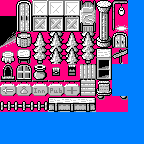
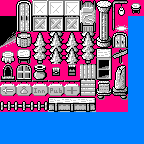
Added new files and updated tilesets

Changed region(s): [[0.7778, 0.4444, 0.8889, 0.6667], [0.8889, 0.0, 1.0, 0.1111]]

diff --git a/saga/res/maps/tilesets/upper.tsx b/saga/res/maps/tilesets/upper.tsx
@@ -1,239 +1,4 @@
 <?xml version="1.0" encoding="UTF-8"?>
 <tileset name="upper" tilewidth="16" tileheight="16">
  <image source="upper2.PNG" trans="ff0080" width="144" height="144"/>
- <tile id="1">
-  <properties>
-   <property name="x" value=""/>
-  </properties>
- </tile>
- <tile id="2">
-  <properties>
-   <property name="x" value=""/>
-  </properties>
- </tile>
- <tile id="3">
-  <properties>
-   <property name="x" value=""/>
-  </properties>
- </tile>
- <tile id="4">
-  <properties>
-   <property name="x" value=""/>
-  </properties>
- </tile>
- <tile id="5">
-  <properties>
-   <property name="x" value=""/>
-  </properties>
- </tile>
- <tile id="6">
-  <properties>
-   <property name="x" value=""/>
-  </properties>
- </tile>
- <tile id="7">
-  <properties>
-   <property name="x" value=""/>
-  </properties>
- </tile>
- <tile id="10">
-  <properties>
-   <property name="x" value=""/>
-  </properties>
- </tile>
- <tile id="11">
-  <properties>
-   <property name="x" value=""/>
-  </properties>
- </tile>
- <tile id="12">
-  <properties>
-   <property name="x" value=""/>
-  </properties>
- </tile>
- <tile id="13">
-  <properties>
-   <property name="x" value=""/>
-  </properties>
- </tile>
- <tile id="14">
-  <properties>
-   <property name="x" value=""/>
-  </properties>
- </tile>
- <tile id="15">
-  <properties>
-   <property name="x" value=""/>
-  </properties>
- </tile>
- <tile id="16">
-  <properties>
-   <property name="x" value=""/>
-  </properties>
- </tile>
- <tile id="19">
-  <properties>
-   <property name="x" value=""/>
-  </properties>
- </tile>
- <tile id="20">
-  <properties>
-   <property name="x" value=""/>
-  </properties>
- </tile>
- <tile id="21">
-  <properties>
-   <property name="x" value=""/>
-  </properties>
- </tile>
- <tile id="22">
-  <properties>
-   <property name="x" value=""/>
-  </properties>
- </tile>
- <tile id="23">
-  <properties>
-   <property name="x" value=""/>
-  </properties>
- </tile>
- <tile id="24">
-  <properties>
-   <property name="x" value=""/>
-  </properties>
- </tile>
- <tile id="27">
-  <properties>
-   <property name="x" value=""/>
-  </properties>
- </tile>
- <tile id="28">
-  <properties>
-   <property name="x" value=""/>
-  </properties>
- </tile>
- <tile id="29">
-  <properties>
-   <property name="x" value=""/>
-  </properties>
- </tile>
- <tile id="30">
-  <properties>
-   <property name="x" value=""/>
-  </properties>
- </tile>
- <tile id="31">
-  <properties>
-   <property name="x" value=""/>
-  </properties>
- </tile>
- <tile id="32">
-  <properties>
-   <property name="x" value=""/>
-  </properties>
- </tile>
- <tile id="33">
-  <properties>
-   <property name="x" value=""/>
-  </properties>
- </tile>
- <tile id="36">
-  <properties>
-   <property name="x" value=""/>
-  </properties>
- </tile>
- <tile id="37">
-  <properties>
-   <property name="x" value=""/>
-  </properties>
- </tile>
- <tile id="38">
-  <properties>
-   <property name="x" value=""/>
-  </properties>
- </tile>
- <tile id="39">
-  <properties>
-   <property name="x" value=""/>
-  </properties>
- </tile>
- <tile id="40">
-  <properties>
-   <property name="x" value=""/>
-  </properties>
- </tile>
- <tile id="41">
-  <properties>
-   <property name="o" value=""/>
-  </properties>
- </tile>
- <tile id="42">
-  <properties>
-   <property name="x" value=""/>
-  </properties>
- </tile>
- <tile id="45">
-  <properties>
-   <property name="x" value=""/>
-  </properties>
- </tile>
- <tile id="46">
-  <properties>
-   <property name="x" value=""/>
-  </properties>
- </tile>
- <tile id="47">
-  <properties>
-   <property name="x" value=""/>
-  </properties>
- </tile>
- <tile id="48">
-  <properties>
-   <property name="x" value=""/>
-  </properties>
- </tile>
- <tile id="49">
-  <properties>
-   <property name="x" value=""/>
-  </properties>
- </tile>
- <tile id="50">
-  <properties>
-   <property name="o" value=""/>
-  </properties>
- </tile>
- <tile id="51">
-  <properties>
-   <property name="x" value=""/>
-  </properties>
- </tile>
- <tile id="54">
-  <properties>
-   <property name="x" value=""/>
-  </properties>
- </tile>
- <tile id="55">
-  <properties>
-   <property name="x" value=""/>
-  </properties>
- </tile>
- <tile id="56">
-  <properties>
-   <property name="x" value=""/>
-  </properties>
- </tile>
- <tile id="57">
-  <properties>
-   <property name="x" value=""/>
-  </properties>
- </tile>
- <tile id="58">
-  <properties>
-   <property name="x" value=""/>
-  </properties>
- </tile>
- <tile id="59">
-  <properties>
-   <property name="x" value=""/>
-  </properties>
- </tile>
 </tileset>

diff --git a/saga/res/maps/tilesets/lower.tsx b/saga/res/maps/tilesets/lower.tsx
@@ -1,134 +1,4 @@
 <?xml version="1.0" encoding="UTF-8"?>
 <tileset name="lower" tilewidth="16" tileheight="16">
- <image source="lower2.PNG" width="112" height="128"/>
- <tile id="3">
-  <properties>
-   <property name="x" value=""/>
-  </properties>
- </tile>
- <tile id="4">
-  <properties>
-   <property name="x" value=""/>
-  </properties>
- </tile>
- <tile id="5">
-  <properties>
-   <property name="x" value=""/>
-  </properties>
- </tile>
- <tile id="6">
-  <properties>
-   <property name="x" value=""/>
-  </properties>
- </tile>
- <tile id="10">
-  <properties>
-   <property name="x" value=""/>
-  </properties>
- </tile>
- <tile id="11">
-  <properties>
-   <property name="x" value=""/>
-  </properties>
- </tile>
- <tile id="12">
-  <properties>
-   <property name="x" value=""/>
-  </properties>
- </tile>
- <tile id="13">
-  <properties>
-   <property name="x" value=""/>
-  </properties>
- </tile>
- <tile id="17">
-  <properties>
-   <property name="x" value=""/>
-  </properties>
- </tile>
- <tile id="18">
-  <properties>
-   <property name="x" value=""/>
-  </properties>
- </tile>
- <tile id="19">
-  <properties>
-   <property name="x" value=""/>
-  </properties>
- </tile>
- <tile id="20">
-  <properties>
-   <property name="x" value=""/>
-  </properties>
- </tile>
- <tile id="24">
-  <properties>
-   <property name="x" value=""/>
-  </properties>
- </tile>
- <tile id="26">
-  <properties>
-   <property name="x" value=""/>
-  </properties>
- </tile>
- <tile id="27">
-  <properties>
-   <property name="x" value=""/>
-  </properties>
- </tile>
- <tile id="31">
-  <properties>
-   <property name="x" value=""/>
-  </properties>
- </tile>
- <tile id="33">
-  <properties>
-   <property name="x" value=""/>
-  </properties>
- </tile>
- <tile id="34">
-  <properties>
-   <property name="x" value=""/>
-  </properties>
- </tile>
- <tile id="38">
-  <properties>
-   <property name="x" value=""/>
-  </properties>
- </tile>
- <tile id="39">
-  <properties>
-   <property name="x" value=""/>
-  </properties>
- </tile>
- <tile id="41">
-  <properties>
-   <property name="x" value=""/>
-  </properties>
- </tile>
- <tile id="45">
-  <properties>
-   <property name="x" value=""/>
-  </properties>
- </tile>
- <tile id="46">
-  <properties>
-   <property name="x" value=""/>
-  </properties>
- </tile>
- <tile id="48">
-  <properties>
-   <property name="x" value=""/>
-  </properties>
- </tile>
- <tile id="52">
-  <properties>
-   <property name="x" value=""/>
-  </properties>
- </tile>
- <tile id="53">
-  <properties>
-   <property name="x" value=""/>
-  </properties>
- </tile>
+ <image source="lower2.PNG" trans="ff0080" width="128" height="128"/>
 </tileset>
